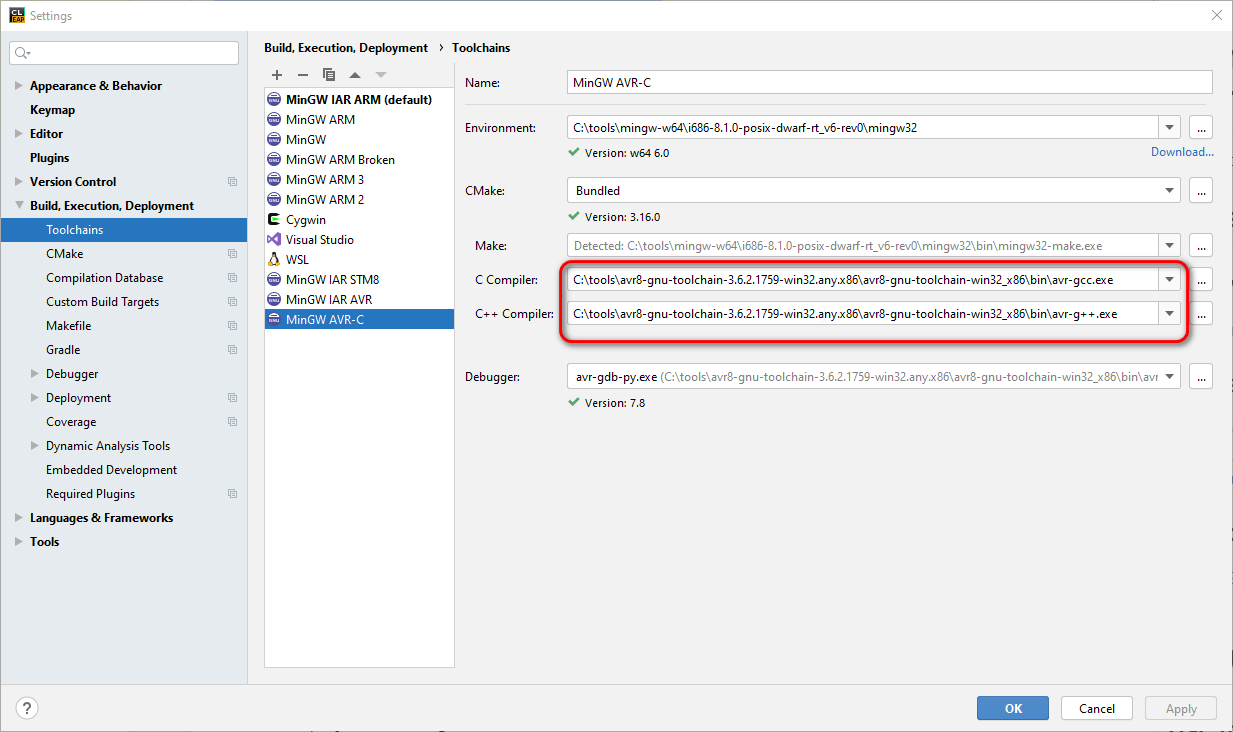
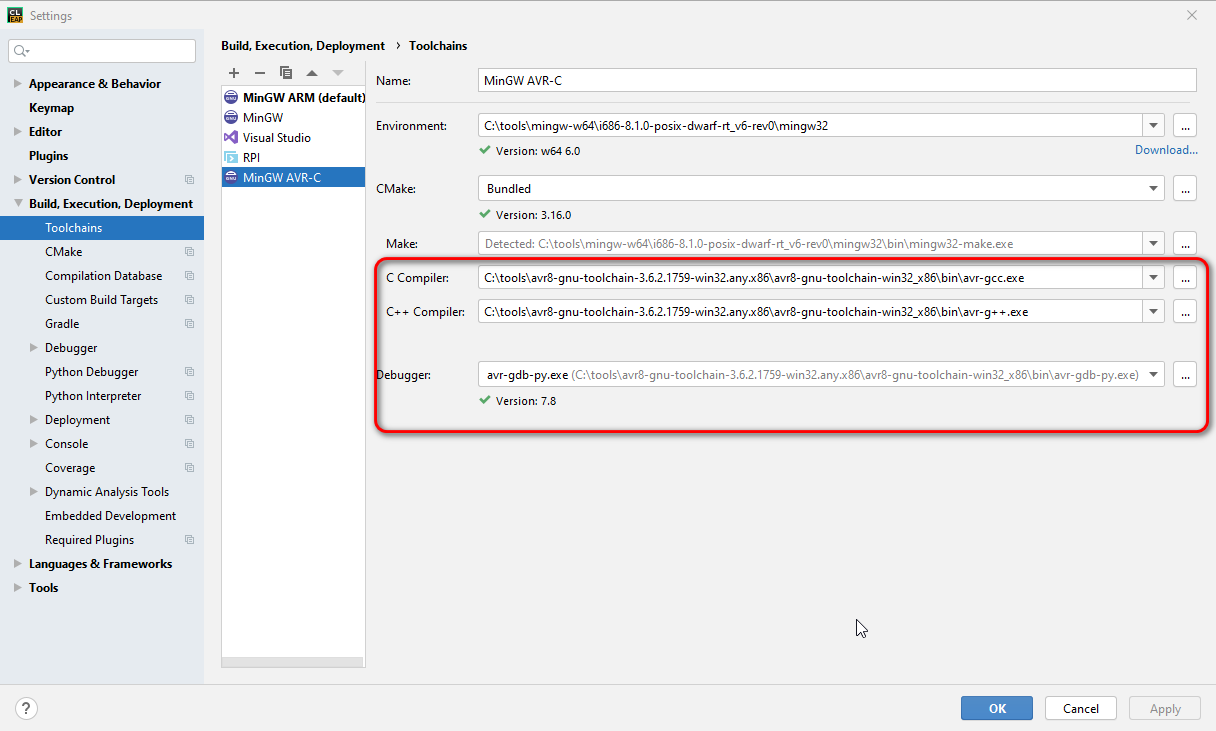
Fix documnentation

diff --git a/Readme.md b/Readme.md
@@ -15,13 +15,15 @@
 
 ### Use the project
 - Open the project with CLion
-- Setup a new CLion Toolchain (i.e. set compilators location) with your AVR8 GNU installation (*Settings -> Build, Execution, Deployment -> Toolchains*)
+- Setup a new CLion Toolchain (i.e. set compilators and debugger location) with your AVR8 GNU installation (*Settings -> Build, Execution, Deployment -> Toolchains*).
+You may use either `avr-gdb-py` or `avr-gdb`. First one is better but requires Python to be installed.  
 <details>
 <summary>Screenshot 1</summary>
  
 ![CLion Settings Part I](docs/settings_toolchains.png "CLion Settings Part I")
  
 </details>
+
 
 - Use the toolchain for the project (*Settings -> Build, Execution, Deployment -> CMake -> Toolchain:*)
 <details>
